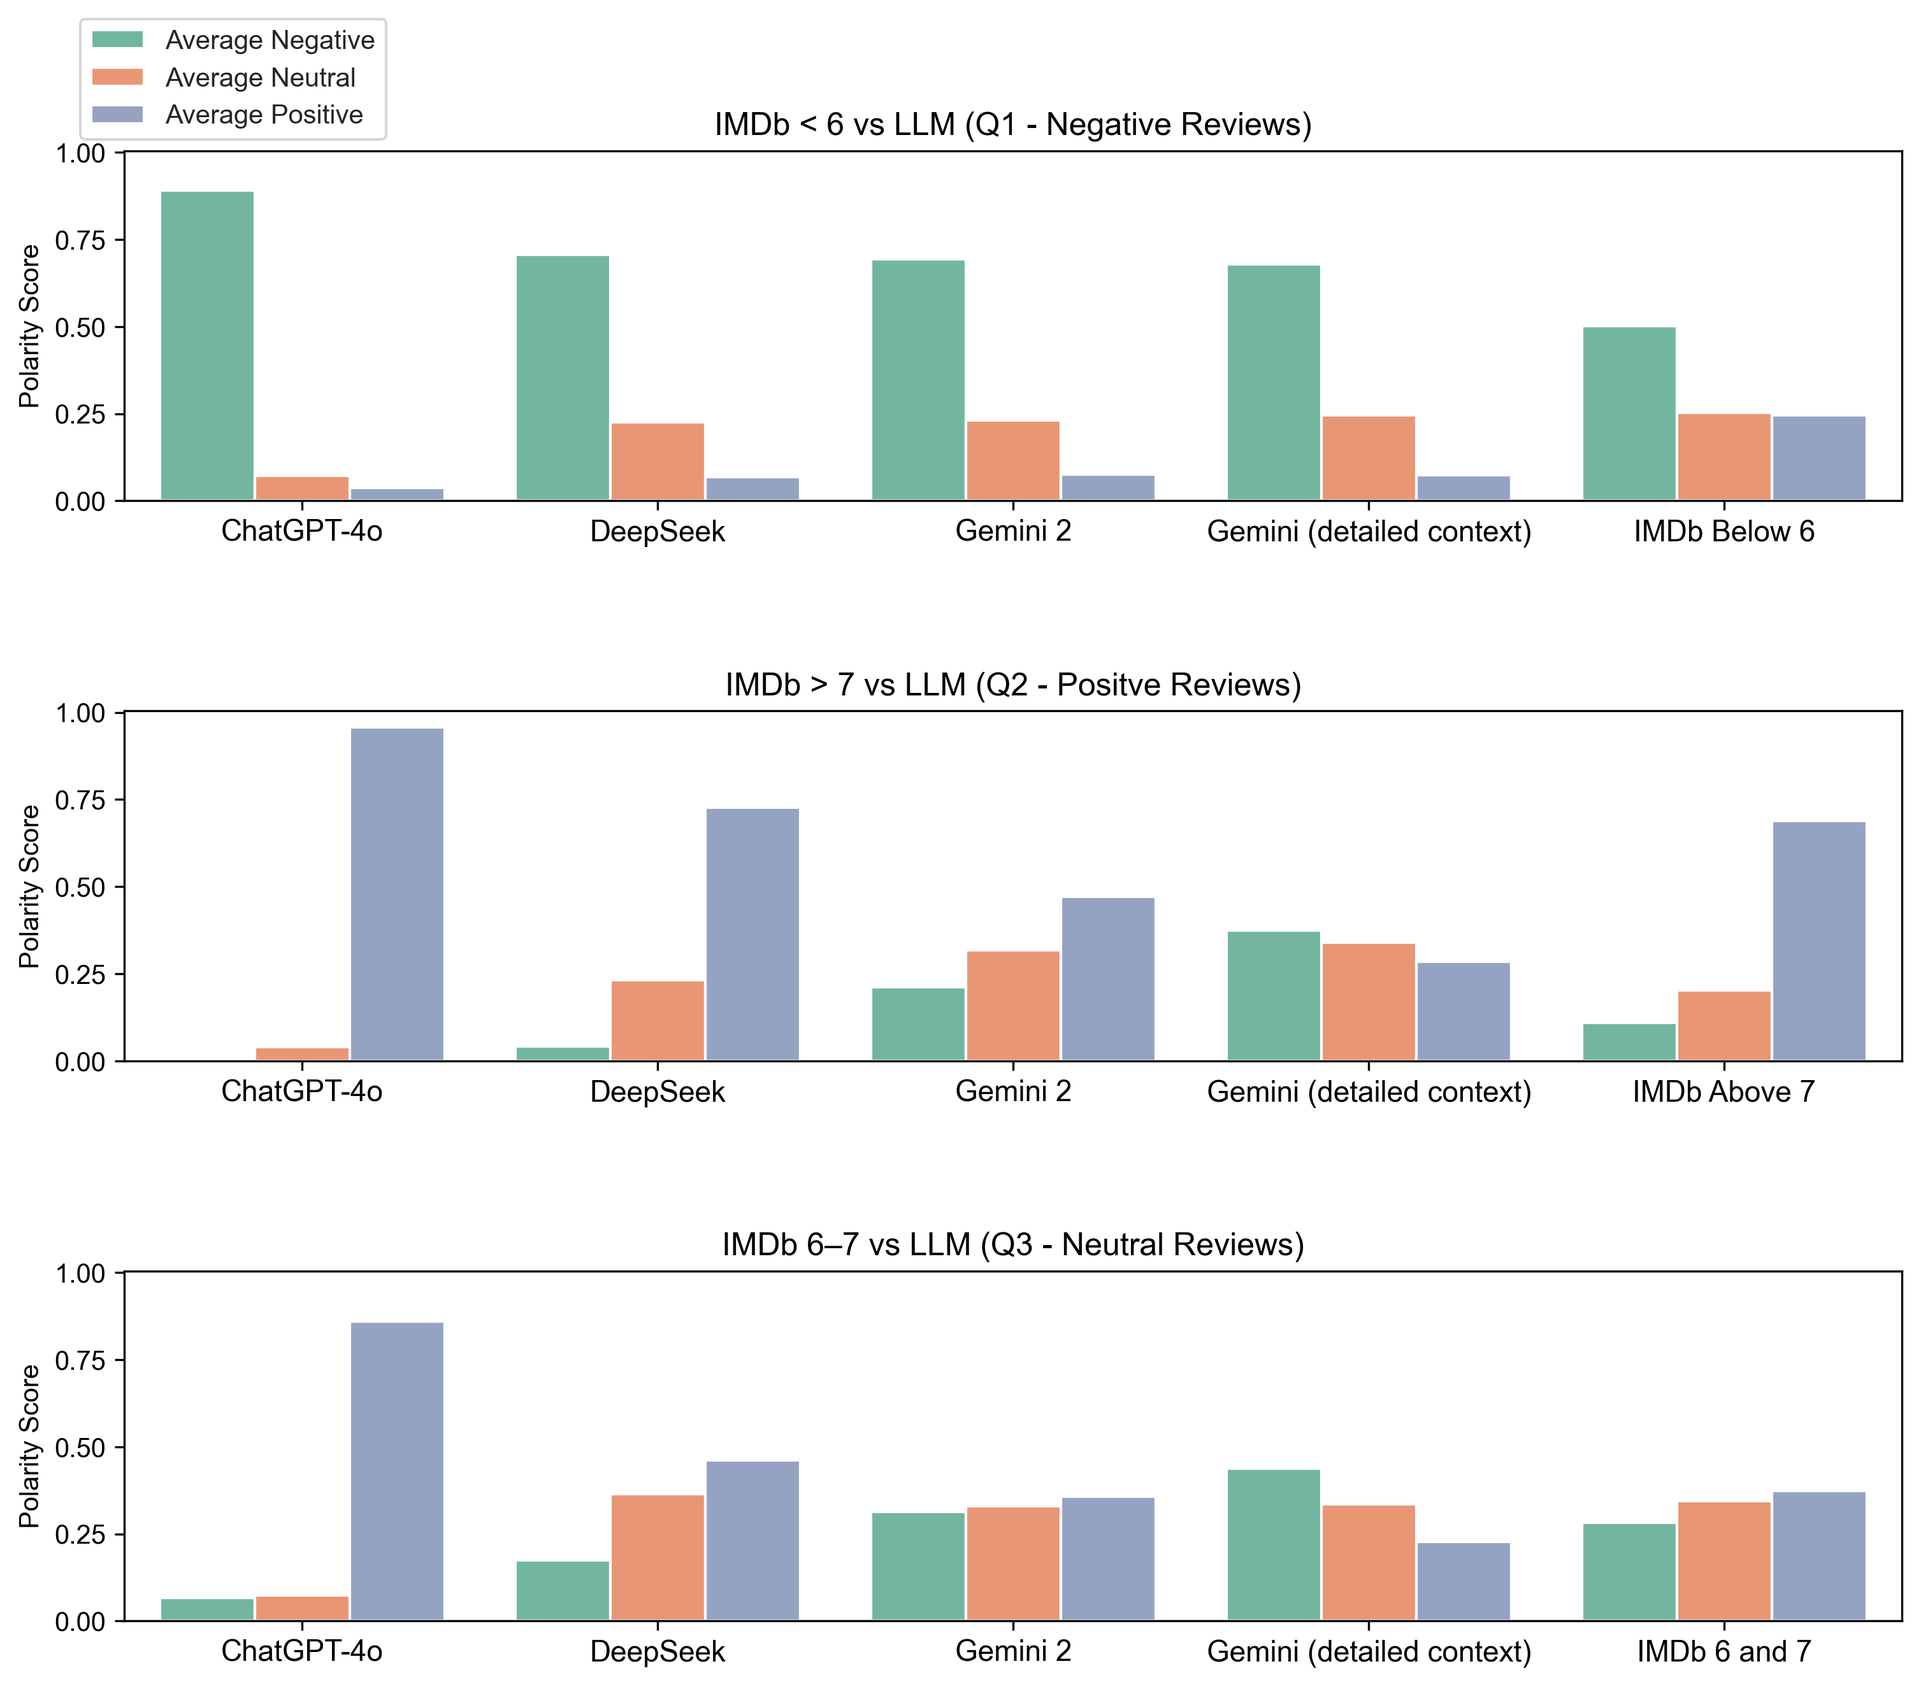
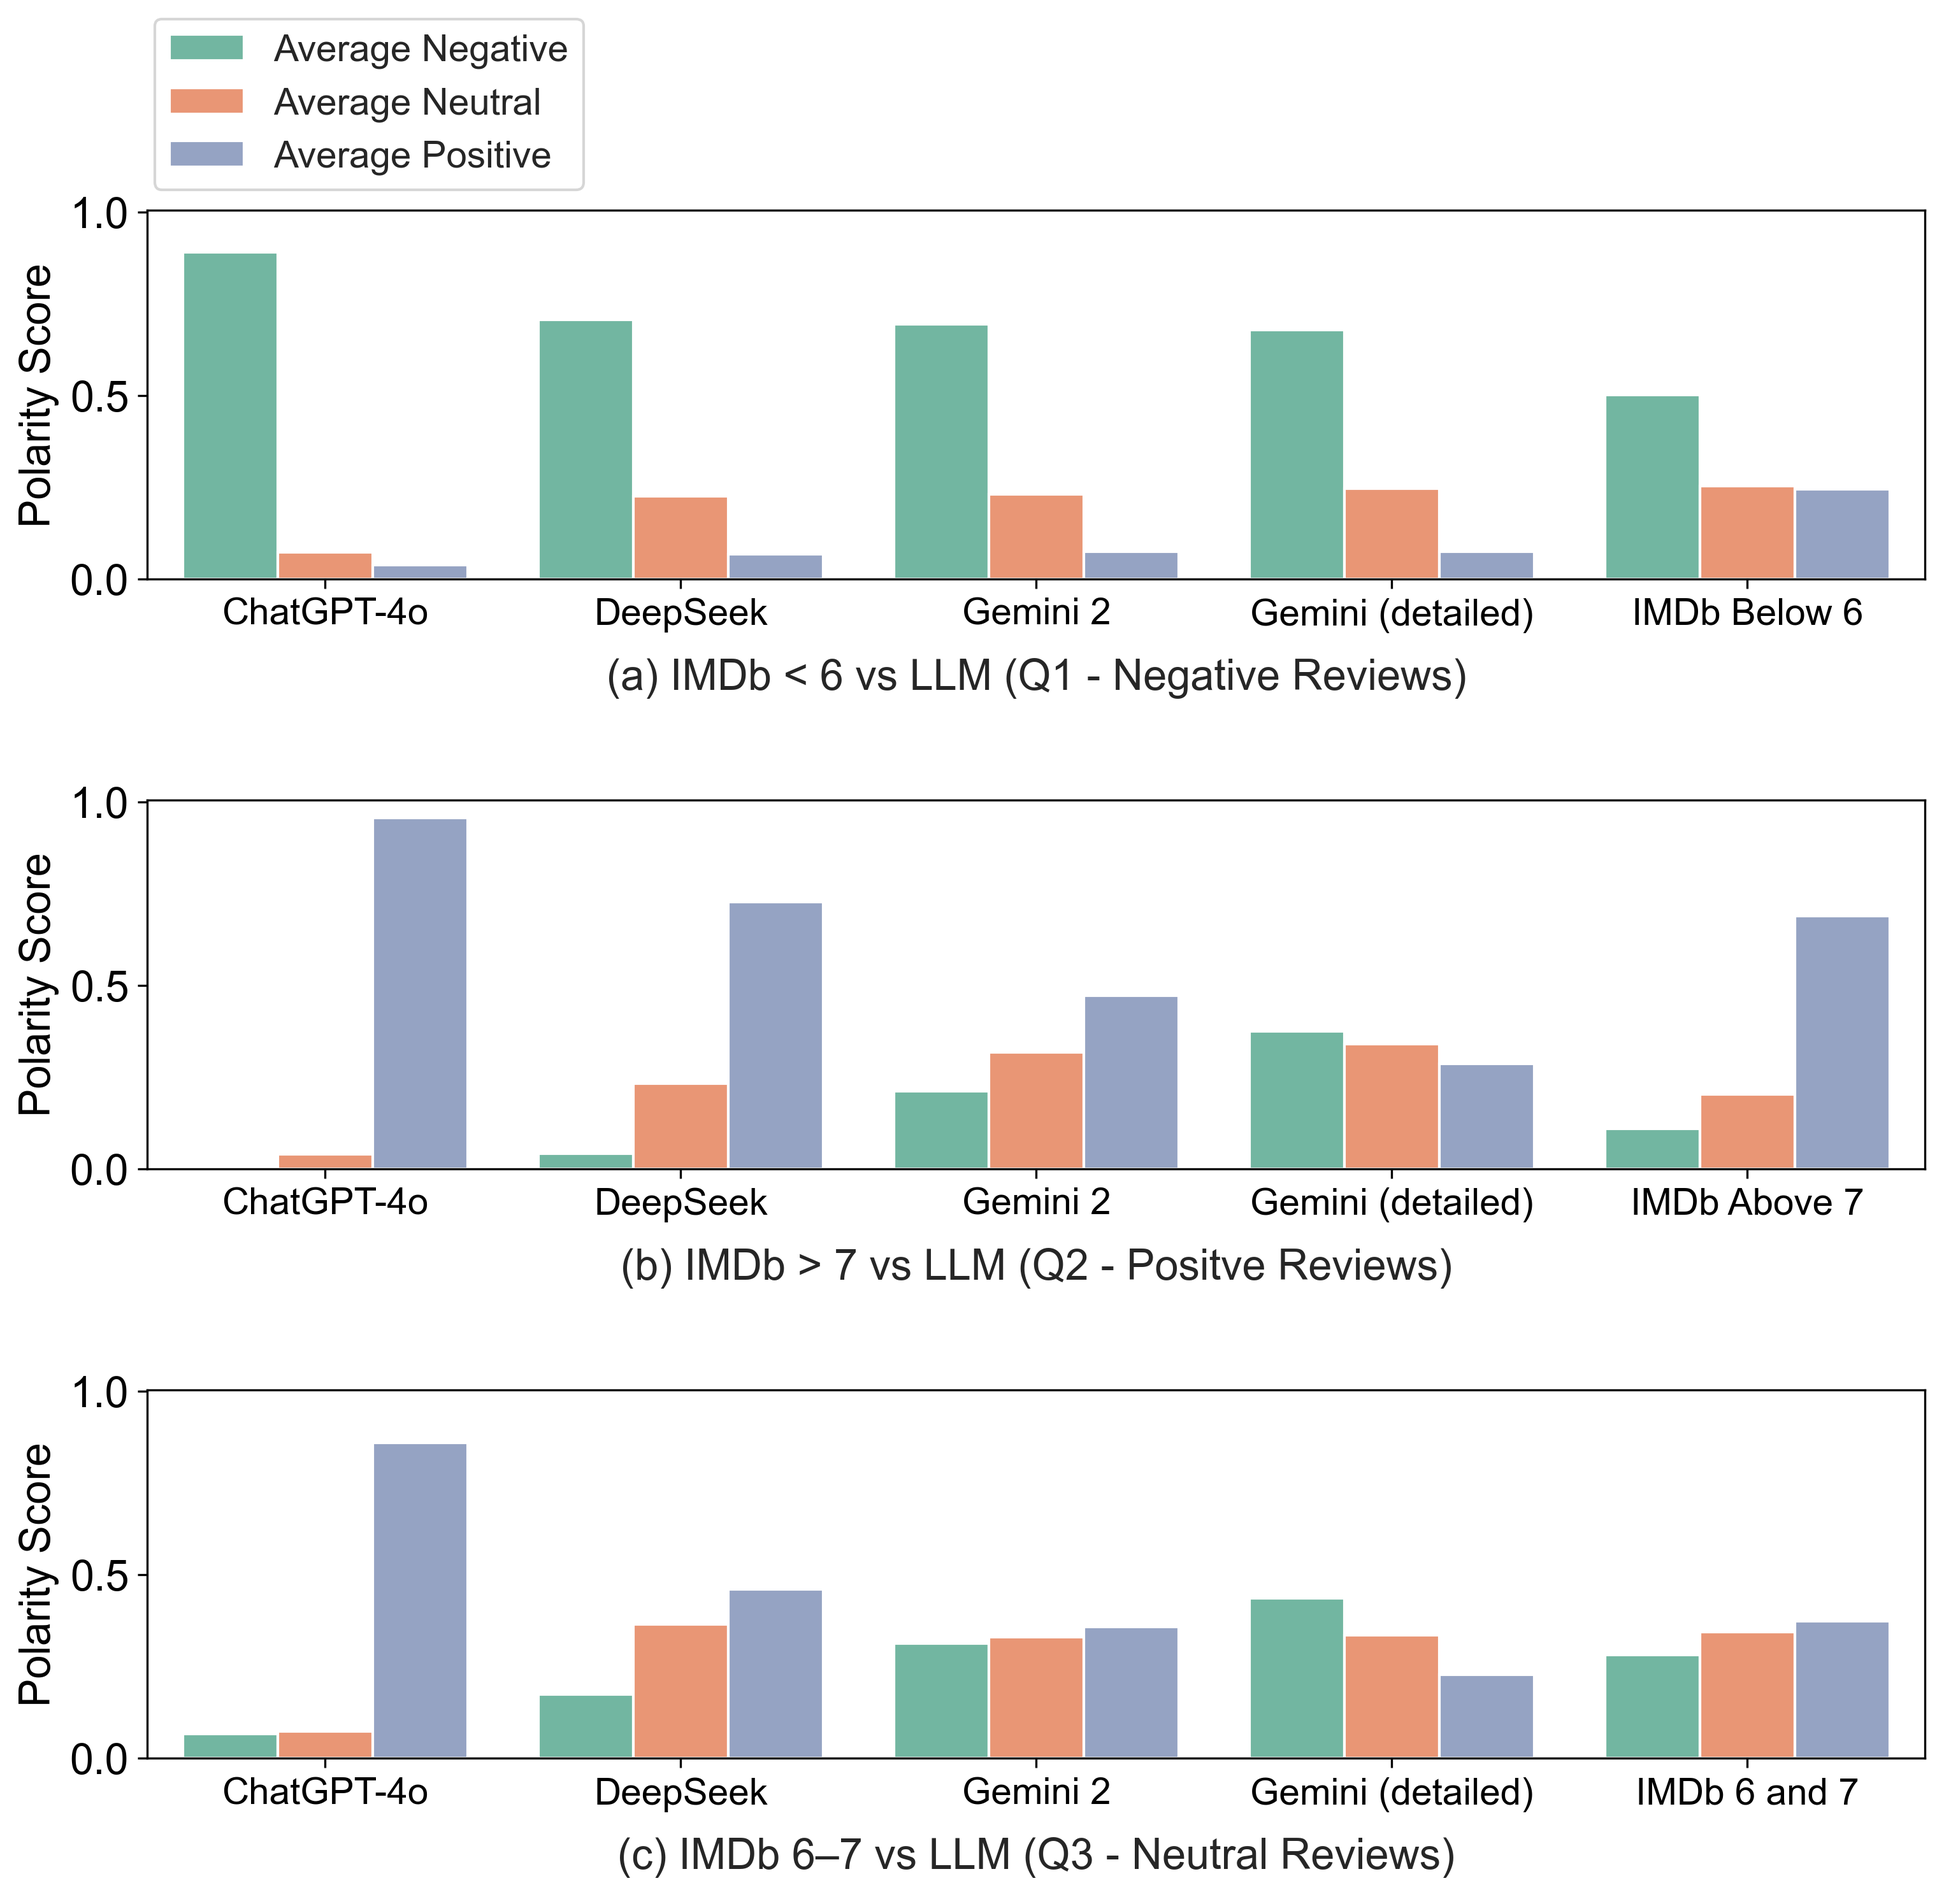
update

diff --git a/visualization/polarity.py b/visualization/polarity.py
@@ -14,7 +14,7 @@ imdb_6_and_7 = pd.read_csv('../average_polarity_scores_imdb_between_6_and_7.csv'
 def replace_model_name(file_name):
     # Check for 'gemini' with context variation first
     if 'gemini_screenplays_context_variation' in file_name.lower() or 'gemini_context_variation' in file_name.lower():
-        return 'Gemini (detailed context)'
+        return 'Gemini (detailed)'
     elif 'gemini_screenplays' in file_name.lower():
         return 'Gemini 2'
     elif 'chatgpt' in file_name.lower():
@@ -69,14 +69,14 @@ def generate_polarity_barplot(source_name):
 
 
     # plot
-    fig, axes = plt.subplots(3, 1, figsize=(12,9.5), sharey=True)
+    fig, axes = plt.subplots(3, 1, figsize=(12,10), sharey=True)
     sns.set(style="whitegrid")
     palette = sns.color_palette("Set2", 3)
 
     plot_data = [
-        ('IMDb < 6 vs LLM (Q1 - Negative Reviews)', melted_bad_reviews, axes[0]),
-        ('IMDb > 7 vs LLM (Q2 - Positve Reviews)', melted_good_reviews, axes[1]),
-        ('IMDb 6–7 vs LLM (Q3 - Neutral Reviews)', melted_neutral_reviews, axes[2])
+        ('(a) IMDb < 6 vs LLM (Q1 - Negative Reviews)', melted_bad_reviews, axes[0]),
+        ('(b) IMDb > 7 vs LLM (Q2 - Positve Reviews)', melted_good_reviews, axes[1]),
+        ('(c) IMDb 6–7 vs LLM (Q3 - Neutral Reviews)', melted_neutral_reviews, axes[2])
     ]
 
     for title, df, ax in plot_data:
@@ -84,18 +84,21 @@ def generate_polarity_barplot(source_name):
                     data=df, ax=ax, palette=palette,
                     errorbar=None)
 
-        ax.set_title(title)
+        # ax.set_title(title, fontsize=18)
+        ax.text(0.5, -0.3, title, fontsize=16, ha='center', transform=ax.transAxes)
         ax.set_xlabel('')
-        ax.set_ylabel('Polarity Score')
-        ax.tick_params(axis='x', labelsize=11)
+        ax.set_ylabel('Polarity Score', fontsize=16)
+        ax.tick_params(axis='x', labelsize=14)
+        ax.tick_params(axis='y', labelsize=16)
         ax.get_legend().remove()
         ax.grid(False)
+
 
     # shared legend
     handles, labels = axes[0].get_legend_handles_labels()
     fig.legend(handles, labels, loc='upper left', ncol=1,
-               bbox_to_anchor=(0.1, 1.0),
-               fontsize=10, title_fontsize=11)
+               bbox_to_anchor=(0.12, 1.03),
+               fontsize=14)
 
 
     # layout adjustment
